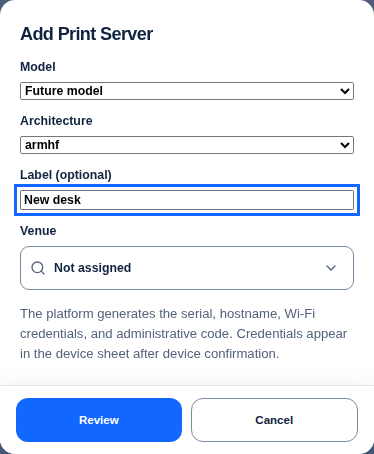
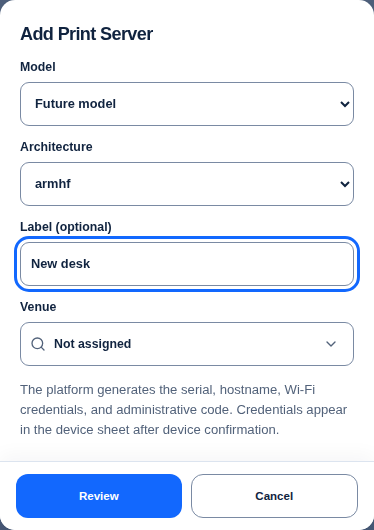
fix(portal): align add print server control heights

diff --git a/src/styles.css b/src/styles.css
@@ -337,3 +337,4 @@ h1,h2,h3,p{margin-top:0}h1,h2,h3{font-family:Manrope,sans-serif;letter-spacing:-
 .inv-inventory-table .inv-actions .button svg{flex:none}
 @media(max-width:700px){.inv-inventory-table td:last-child{width:100%;min-width:0}.inv-inventory-table .inv-actions{display:flex;flex-wrap:wrap;justify-content:flex-end;width:auto}.inv-inventory-table .inv-actions .button{width:auto;min-width:140px}}
 @media(max-width:450px){.inv-inventory-table .inv-actions{width:100%;display:grid;grid-template-columns:minmax(0,1fr)}.inv-inventory-table .inv-actions .button{width:100%}}
+.admin-device-form .field>input,.admin-device-form .field>select,[data-testid="admin-device-manage-dialog"] .field>input{box-sizing:border-box;width:100%;min-width:0;height:44px;min-height:44px;border:1px solid var(--control-line);border-radius:9px;padding:0 10px;background:var(--surface);color:var(--ink);font:inherit;font-size:.8rem}
